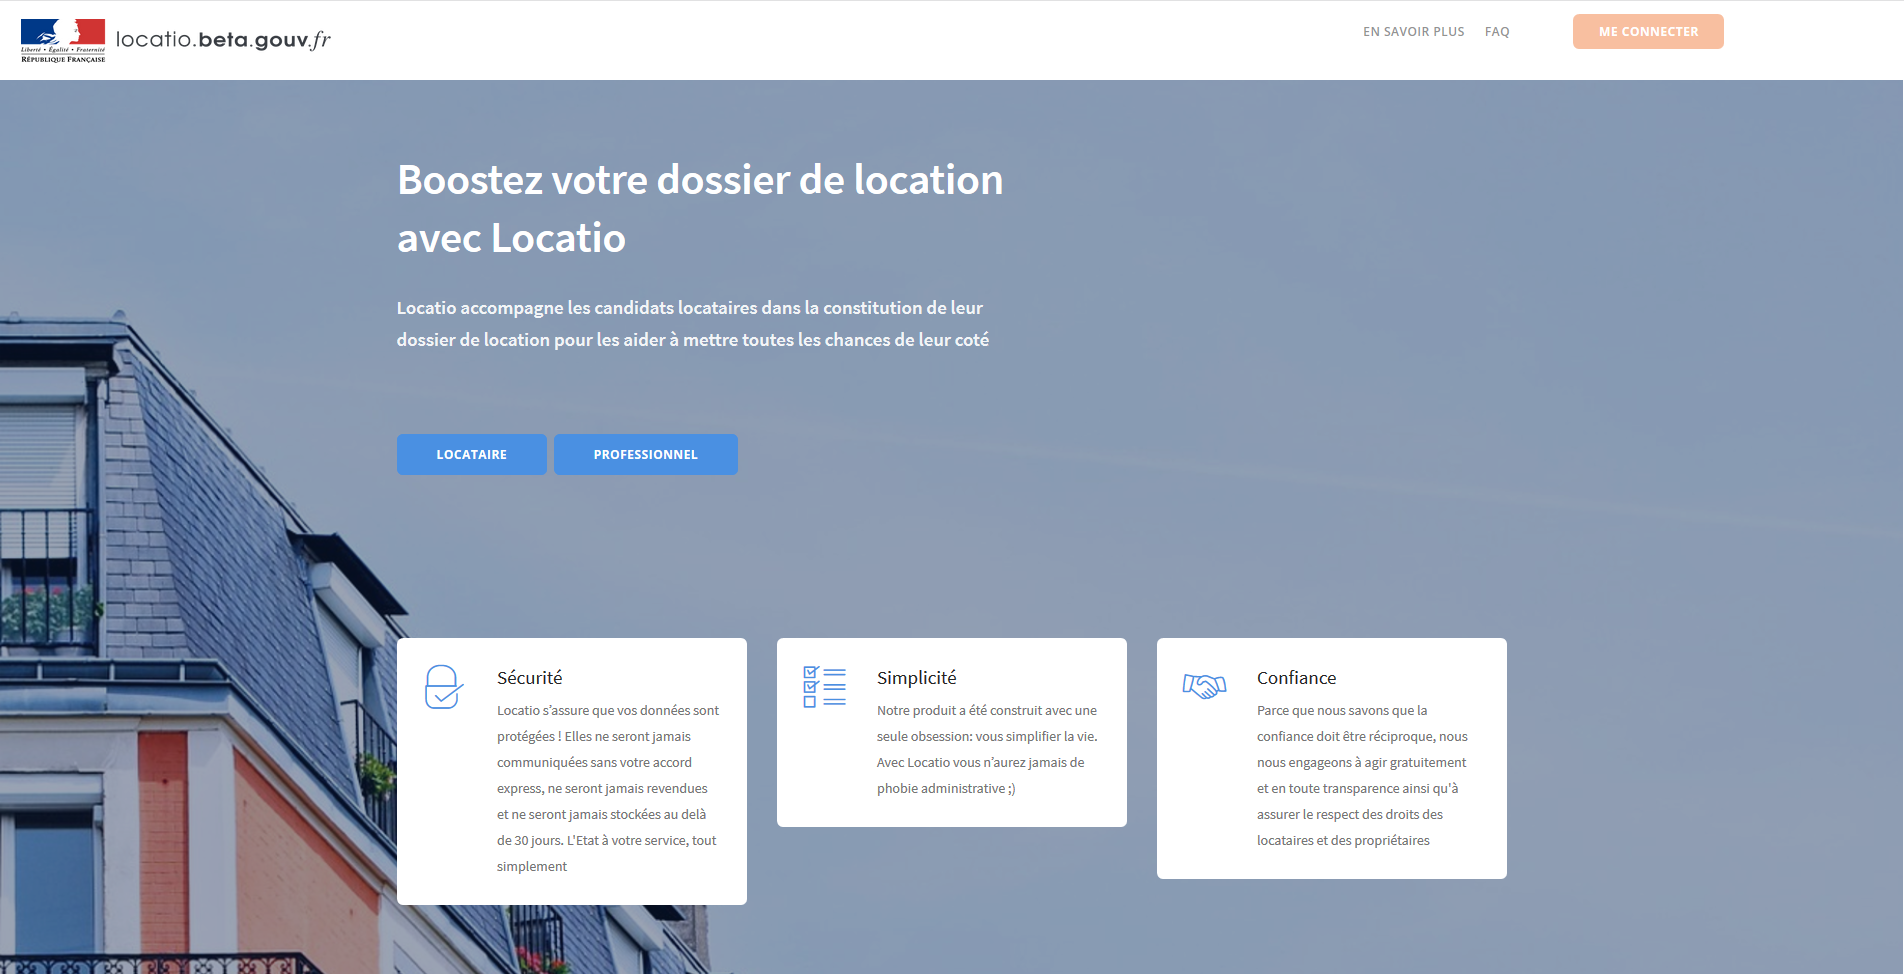
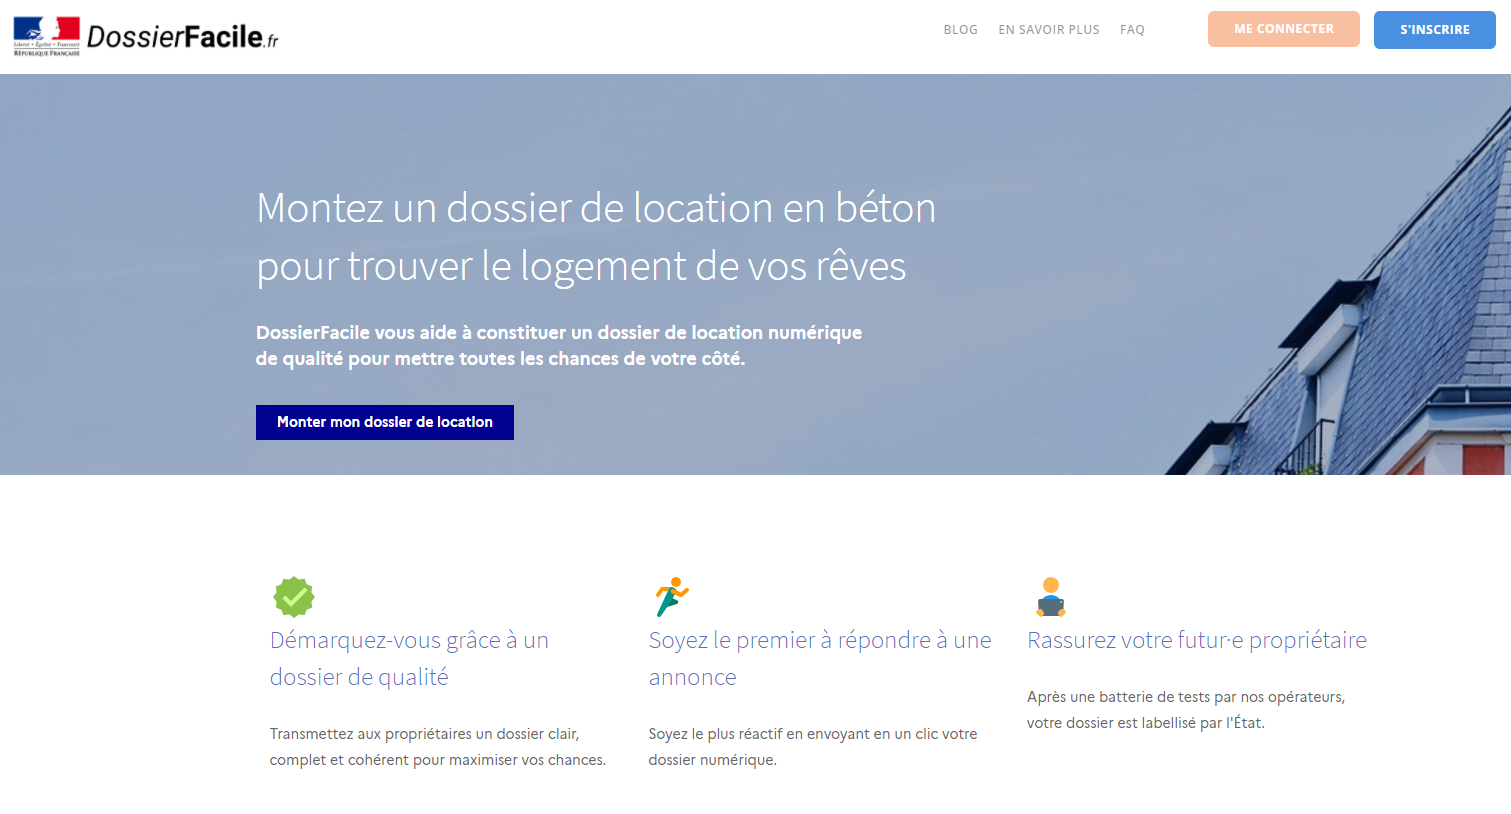
Update site from circleci

diff --git a/src/content/startup/locatio.md b/src/content/startup/locatio.md
@@ -14,12 +14,11 @@ phases:
   - name: construction
     start: 2018-01-01
   - name: acceleration
-link: https://DossierFacile.fr/?utm_source=BetaGouv
-repository: https://github.com/MTES-MCT/locatio
-stats: false
-contact: contact@locatio.beta.gouv.fr
+link: https://dossierfacile.fr/?utm_source=betagouv
+repository: https://github.com/mtes-mct/locatio
+stats: true
+contact: contact@dossierfacile.fr
 ---
-
 ## Locatio devient DossierFacile.fr !
 
 Pas de panique, le nom change mais notre service reste le même !
@@ -30,16 +29,17 @@ Chaque année plus d’un million de baux sont conclus en France, pourtant la re
 Face à ces méthodes, et poussés par la nécessité de se loger, les locataires eux aussi franchissent parfois la ligne. Fausses fiches de paie ou déclarations d’imposition contrefaites fleurissent ainsi dans certaines zones tendues où l’offre de logement est insuffisante pour satisfaire la demande. Se démarquer devient une nécessité et avoir un dossier parfait, la seule solution d’avoir sa chance au milieu de candidatures maquillées.
 Chez DossierFacile, nous ambitionnons de casser ce cercle vicieux pour remettre la confiance au centre de la relation entre locataires et bailleurs.
 
-## un DossierFacile c’est quoi ?
+## Un DossierFacile c’est quoi ?
 
-DossierFacile est une plateforme en ligne qui accompagne gratuitement les candidats locataires dans la consitution de leur dossier de location. 
-Un DossierFacile, c'est un dossier simple, en ligne et totalement gratuit qui aide les locataires à rassurer bailleurs et profesionnels de l'immobilier. Pour obtenir son dossier facile rien de plus simple : le locataire dépose ses pièces sur dossierfacile.fr puis nos équipes effectuent une batterie de tests pour s'assurer que le dossier répond à nos critères "3C". Si le dossier est Clair, Complet et Cohérent, il est validé. Le locataire peut alors envoyé ce dossier à n'importe bailleurs ou professionnel de l'immobilier.
+DossierFacile est une plateforme en ligne qui accompagne gratuitement les candidats locataires dans la constitution de leur dossier de location. 
+Un DossierFacile, c'est un dossier simple, en ligne et totalement gratuit qui aide les locataires à rassurer bailleurs et profesionnels de l'immobilier. Pour obtenir son dossier facile rien de plus simple : le locataire dépose ses pièces sur <a href="https://dossierfacile.fr/">www.dossierfacile.fr</a> puis nos équipes effectuent une batterie de tests pour s'assurer que le dossier répond à nos critères "3C". Si le dossier est Clair, Complet et Cohérent, il est validé. Le locataire peut alors envoyer ce dossier à n'importe quels bailleurs ou professionnels de l'immobilier.
 
 Bailleurs et professionnels de l'immobilier, DossierFacile est là pour vous rassurer dans votre choix en synthétisant les informations des différents candidats à la location et en vérifiant les déclarations d’imposition pour éviter mauvaises surprises et fausses déclarations. Notre rôle n’est pas de choisir pour vous mais nous pouvons vous aider à vérifier que tout est bien en ordre.
 
 ## Le déploiement
 
-Comprendre les besoins des locataires et des bailleurs est notre obsession mais développer un produit adapté à tout le monde demande du temps. Nous avons donc choisi de procéder étape par étape en ciblant tout d’abord les zones tendues du territoire (Paris ou Lyon par exemple). Depuis notre lancement, plus de 50 000 locataires nous ont déjà fait confiance et c'est 50 000 raisons d'être contents ! 
+Lancé en 2018, DossierFacile a su conquérir un nombre croissant d'utilisateurs, particuliers à la recherche d'un logement ou professionnels de l'immobilier ayant recours à nous pour gagner du temps et donner de la valeur à leur service. Fin 2020, ce sont déjà plus de 250 000 locataires, 10 000 propriétaires et une dizaine de professionnels de l'immobilier qui ont choisi de nous faire confiance. Comprendre les besoins des locataires et des bailleurs est notre obsession et notre produit est en amélioration constante.
+
 Chez DossierFacile, nous voyons grand. Partant du dossier de location, nous avons l’ambition d’accompagner locataires et bailleurs tout au long de leur relation - et ce ne sont pas les idées qui nous manquent ! Pour autant, nous savons qu’inspirer la confiance est un défi de longue haleine qui ne pourra être relevé que pas à pas. Gardant tout ça en tête, nous n’avons qu’une boussole : toujours mieux servir les citoyens.
 
-Vous avez une idée ? Une question ? Vous souhaitez contribuer au projet ? <a href="mailto:contact@locatio.beta.gouv.fr">N’hésitez pas à nous écrire</a>
+Vous avez une idée ? Une question ? Vous souhaitez contribuer au projet ? <a href="mailto:contact@dossierfacile.fr">N’hésitez pas à nous écrire.</a>

diff --git a/src/content/startup/chauffage-urbain.md b/src/content/startup/chauffage-urbain.md
@@ -8,6 +8,7 @@ phases:
     start: 2020-03-01
   - name: construction
     start: 2020-12-01
+link: https://chauffage-urbain.beta.gouv.fr/
 repository:
 stats: false
 contact: brigitte.loubet@developpement-durable.gouv.fr
@@ -34,11 +35,14 @@ Ainsi, dans le cas où les chaudières existantes arrivent en fin de vie ou lors
 - **Pour les copropriétés**, @ChauffageUrbain sera une plateforme d’**informations et de mise en relation** directe avec l’exploitant du réseau local (par exemple pour solliciter un rendez-vous ou un devis) mais aussi, d’échange avec d’autres copropriétés déjà raccordées au réseau local et “ambassadrices” de ce réseau pour partager leurs expériences et recommandations.
 - **Pour les exploitants ou collectivités** qui souhaitent agir pour la transition énergétique de leurs territoires, @ChauffageUrbain apportera de **nouveaux prospects** avec des données sur la localisation et les caractéristiques des copropriétés (mode de chauffage actuel, taille, vétusté des chaudières collectives).
 
+Le service est opérationnel en version beta sur https://chauffage-urbain.beta.gouv.fr/
 ## Stratégie de lancement
 
 Nous commençons par la cible des **copropriétés en Ile-de-France** car elles représentent de forts enjeux énergétiques (75 % de la consommation des logements collectifs - source ROSE) et sont encore peu raccordées (15 % seulement sur le réseau parisien et 1500 copropriétés sont encore chauffées au fioul dans Paris ! sources CPCU et APC ). 
 
-**Notre objectif pour les 4 prochains mois** est de construire un prototype et de le tester auprès d’une dizaine de copropriétés et de plusieurs exploitants de réseaux de chaleur, agences locales de l’énergie et collectivités. 
+**L'objectif pour le premier trimestre** est de construire un prototype (réalisé) et de le tester auprès d’une dizaine de copropriétés et de plusieurs exploitants de réseaux de chaleur, agences locales de l’énergie et collectivités. 
+L'étape suivante sera d'obtenir le financement pour une phase de promotion et croissance du service auprès des copropriétés.
+
 **A terme**, des perspectives d’extension sont possibles sur d’autres types de bâtiments ou autres régions. Des partenariats avec les acteurs régionaux et nationaux seront recherchés pour offrir plus de services facilitant la décision des copropriétés (par exemple, un simulateur économique).
 
 **Nous mesurerons l’impact** de @ChauffageUrbain par le nombre de mises en relation entre copropriétés et exploitants, puis le nombre de devis sollicités et à terme le nombre de raccordements.

diff --git a/src/content/people/joeffrey.arruyer.md b/src/content/people/joeffrey.arruyer.md
@@ -4,14 +4,14 @@ role: Startup Coach
 link: https://www.linkedin.com/in/joeffrey-arruyer-5392a744
 missions:
   - start: 2017-12-09
-    end: 2020-12-31
+    end: 2021-12-31
     status: service
     employer: NUMA
 startups:
     - kelrisks
     - a-dock
     - camino
-    - Dossier Facile
+    - locatio
 ---
 
 In your PC, stealing your Internetz

diff --git a/src/content/people/christophe.benard.md b/src/content/people/christophe.benard.md
@@ -1,12 +1,14 @@
+---
 fullname: Christophe BENARD
 role: Développeur
 github: ch-benard
 missions:
   - start: 2020-09-01
-    end: 2021-09-30
+    end: 2021-08-31
     status: admin
-    employer: MTES-MCT
-avatar: 
+    employer: MTES
 startups:
   - resorption-bidonvilles
 ---
+
+Intégrateur au SNUM, développeur pour Résorption-Bidonvilles

diff --git a/src/content/people/olivier.schmitt.md b/src/content/people/olivier.schmitt.md
@@ -1,0 +1,12 @@
+---
+fullname: Olivier Schmitt
+role: Responsable des partenariats et des opérations pour DossierFacile
+missions:
+  - start: 2020-02-17
+    end: 2022-02-17
+    status: admin
+startups:
+  - locatio
+---
+
+En mission à la Fabrique Numérique après quelques années en détachement et en disponibilité 

diff --git a/src/content/people/alice.roussel.md b/src/content/people/alice.roussel.md
@@ -1,0 +1,13 @@
+---
+fullname: Alice Roussel
+role: Chargée de déploiement
+missions:
+  - start: 2021-01-04
+    end: 2021-03-31
+    status: admin
+    employer: MTES
+startups:
+  - locatio
+---
+
+Étudiante en 2ème partie de césure à HEC, je suis en stage chez DossierFacile en tant que chargée de déploiement ! 

diff --git a/src/content/people/adrien.risser.md b/src/content/people/adrien.risser.md
@@ -9,9 +9,14 @@ missions:
     end: 2019-12-04
     status: independent
   - start: 2019-12-09
-    end: 2020-08-31
+    end: 2020-09-07
+    status: independent
+  - start: 2021-02-08
+    end: 2021-12-31
     status: independent
 startups:
+  - 1000.jours
+previously:
   - camino
 
 ---

diff --git a/src/content/people/annelise.brouste.md b/src/content/people/annelise.brouste.md
@@ -3,8 +3,8 @@ fullname: Anne-Lise Brouste
 role: Chargée d'accompagnement
 github: Annelise131
 missions:
-  - start: 2020-04-01
-    end: 2020-12-31
+  - start: 2020-01-01
+    end: 2021-01-22
     status: independent
     employer: Octo technology
 startups:

diff --git a/src/content/people/gael.destrem.md b/src/content/people/gael.destrem.md
@@ -1,0 +1,13 @@
+---
+fullname: Gaël Destrem
+role: Développeur
+github: gaeldestrem
+missions:
+  - start: 2020-09-01
+    end: 2021-04-30
+    status: independent
+    employer: Octo
+startups:
+  - resorption-bidonvilles
+---
+

diff --git a/src/content/people/michael.boitin.md b/src/content/people/michael.boitin.md
@@ -1,0 +1,13 @@
+---
+fullname: Michael Boitin
+role: Ux designer
+github: mickeymick25
+missions:
+  - start: 2021-02-08
+    end: 2021-05-08
+    status: independent
+startups:
+  - locatio
+---
+
+Ux designer @ DossierFacile.fr

diff --git a/src/content/people/eric.de-la-broise.md b/src/content/people/eric.de-la-broise.md
@@ -4,7 +4,7 @@ role: Data Scientist auprès de DossierFacile.Fr
 github: madatatiere
 missions:
   - start: 2020-11-09
-    end: 2021-02-09
+    end: 2021-05-09
     status: independent
     employer: Octo
 startups:

diff --git a/src/content/people/breanne.mallat.md b/src/content/people/breanne.mallat.md
@@ -4,7 +4,7 @@ role: Chargée d'accompagnement
 github: bmallat
 missions:
   - start: 2020-07-12
-    end: 2021-02-28
+    end: 2021-01-31
     status: independent
     employer: numa
 startups:
